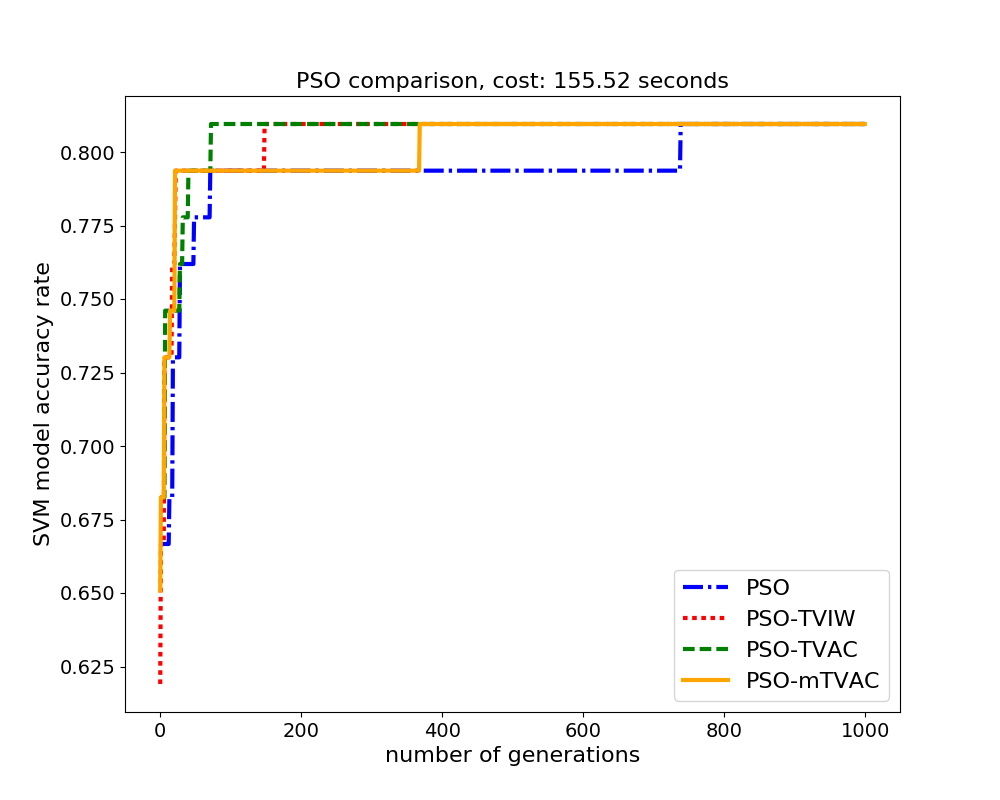
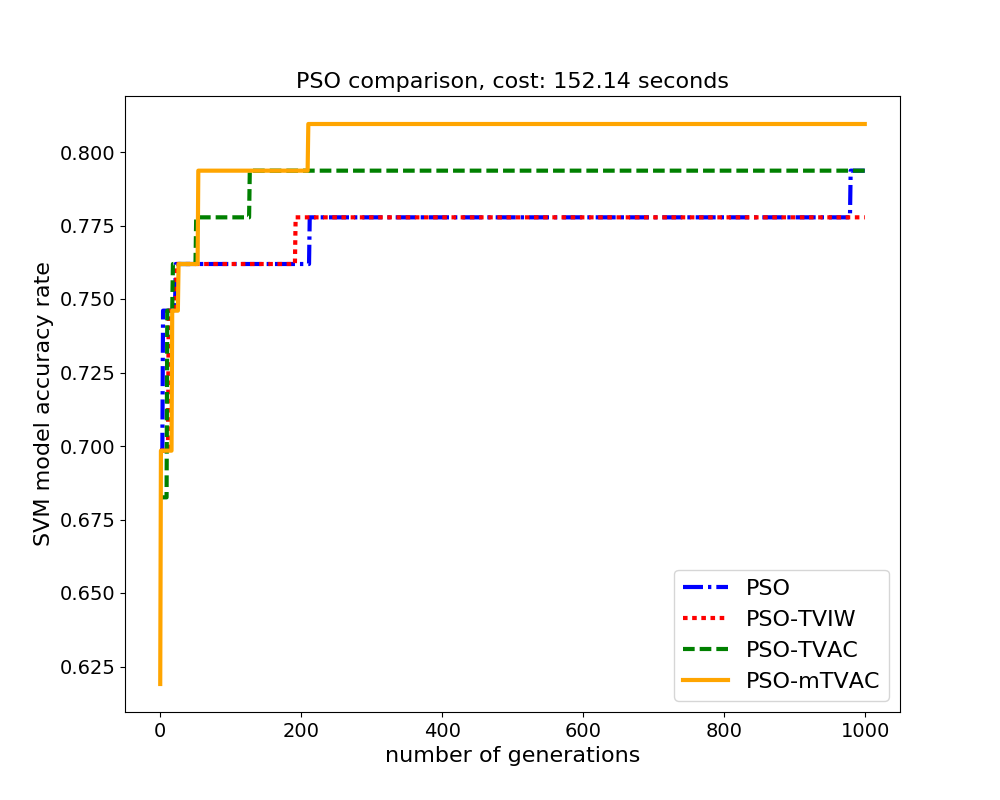
add at 18:55 2018/10/20 at lab

Changed region(s): [[0.155, 0.125, 0.868, 0.6875], [0.155, 0.75, 0.186, 0.8438], [0.589, 0.0938, 0.651, 0.125]]

diff --git a/svm_pso_predictor_mTVAC.py b/svm_pso_predictor_mTVAC.py
@@ -37,6 +37,11 @@ class PSO_MTVAC():
         self.r2 = random.uniform(0, 1)
         self.r3 = random.uniform(0, 1)
         self.r4 = random.uniform(0, 1)
+
+        # 突变相关的参数
+        self.mutation_num = pN / 3  # 初始值暂定为种群的大小除以2
+        self.mutation_num_start = pN / 3  # 初始值暂定为种群的大小除以2
+        self.mutation_num_end = pN / 10  # 初始值暂定为种群的大小除以2
         # self.mprop = random.uniform(0, 1)  # 突变概率
         self.mprop = 1  # 突变概率
         self.rp = random.randint(0, pN - 1)  # 随机选择一个微粒(index)
@@ -105,8 +110,6 @@ class PSO_MTVAC():
             self.r2 = random.uniform(0, 1)
             self.r3 = random.uniform(0, 1)
             self.r4 = random.uniform(0, 1)
-            self.rp = random.randint(0, self.pN - 1)  # 随机选择一个微粒(index)
-            self.rd = random.randint(0, self.dim - 1)  # 随机选择一个维度(index)
 
             for i in range(self.pN):
                 for d in range(self.dim):  # 对维度遍历
@@ -127,20 +130,33 @@ class PSO_MTVAC():
                     elif self.X[i][d] < self.min_x[d]:
                         self.X[i][d] = self.min_x[d]
 
-            fitness.append(self.fit)    # 追加全局最优
+            fitness.append(self.fit)  # 追加全局最优
 
             # 如果全局最优保持不变的话
             if len(fitness) >= 2 and (fitness[-1] - fitness[-2] <= 0):
-                if self.r1 < self.mprop:
-                    if self.r2 < 0.5:
-                        self.V[self.rp][self.rd] += self.r3 * self.max_v[self.rd] / self.m
-                    else:
-                        self.V[self.rp][self.rd] -= self.r4 * self.max_v[self.rd] / self.m
+                for mn in range(int(self.mutation_num)):  # 突变的粒子数量
+                    self.rp = random.randint(0, self.pN - 1)  # 随机选择一个微粒(index)
+                    self.rd = random.randint(0, self.dim - 1)  # 随机选择一个维度(index)
+                    if self.r1 < self.mprop:
+                        if self.r2 < 0.5:
+                            # self.V[self.rp][self.rd] += self.r3 * self.max_v[self.rd] / self.m
+                            # 突变步长系数改为time varying, 大小用惯性权重
+                            self.V[self.rp][self.rd] += self.w * self.max_v[self.rd] / self.m
+                        else:
+                            # self.V[self.rp][self.rd] -= self.r4 * self.max_v[self.rd] / self.m
+                            self.V[self.rp][self.rd] -= self.w * self.max_v[self.rd] / self.m
 
             print('V: ', self.V[0], end=" ")
             print('X: ', self.X[0], end=" ")
             print(self.fit, end=" ")  # 输出最优值
             print('PSO-mTVAC 当前迭代次数：', iter)
+
+            # 更新突变粒子个数
+            self.mutation_num = self.mutation_num_start - \
+                                (self.mutation_num_start - self.mutation_num_end) * iter / self.max_iter
+
+            # 强转成整型
+            self.mutation_num = int(self.mutation_num)
 
             # 更新学习因子
             self.c1 = (self.c1f - self.c1i) * iter / self.max_iter + self.c1i

diff --git a/svm-pso-predictor-compare.py b/svm-pso-predictor-compare.py
@@ -106,6 +106,6 @@ for run in range(5000):
     plt.xticks(fontsize='14')
     # plt.rcParams['savefig.dpi'] = 300  # 图片像素
     # plt.rcParams['figure.dpi'] = 300  # 分辨率
-    plt.savefig('image/pso_m1.0/pso-compare%d.png' % (1+run))
+    plt.savefig('image/pso_m1.0_msTV_mnTV/pso-compare%d.png' % (1+run))
     # plt.show()
     plt.cla()
